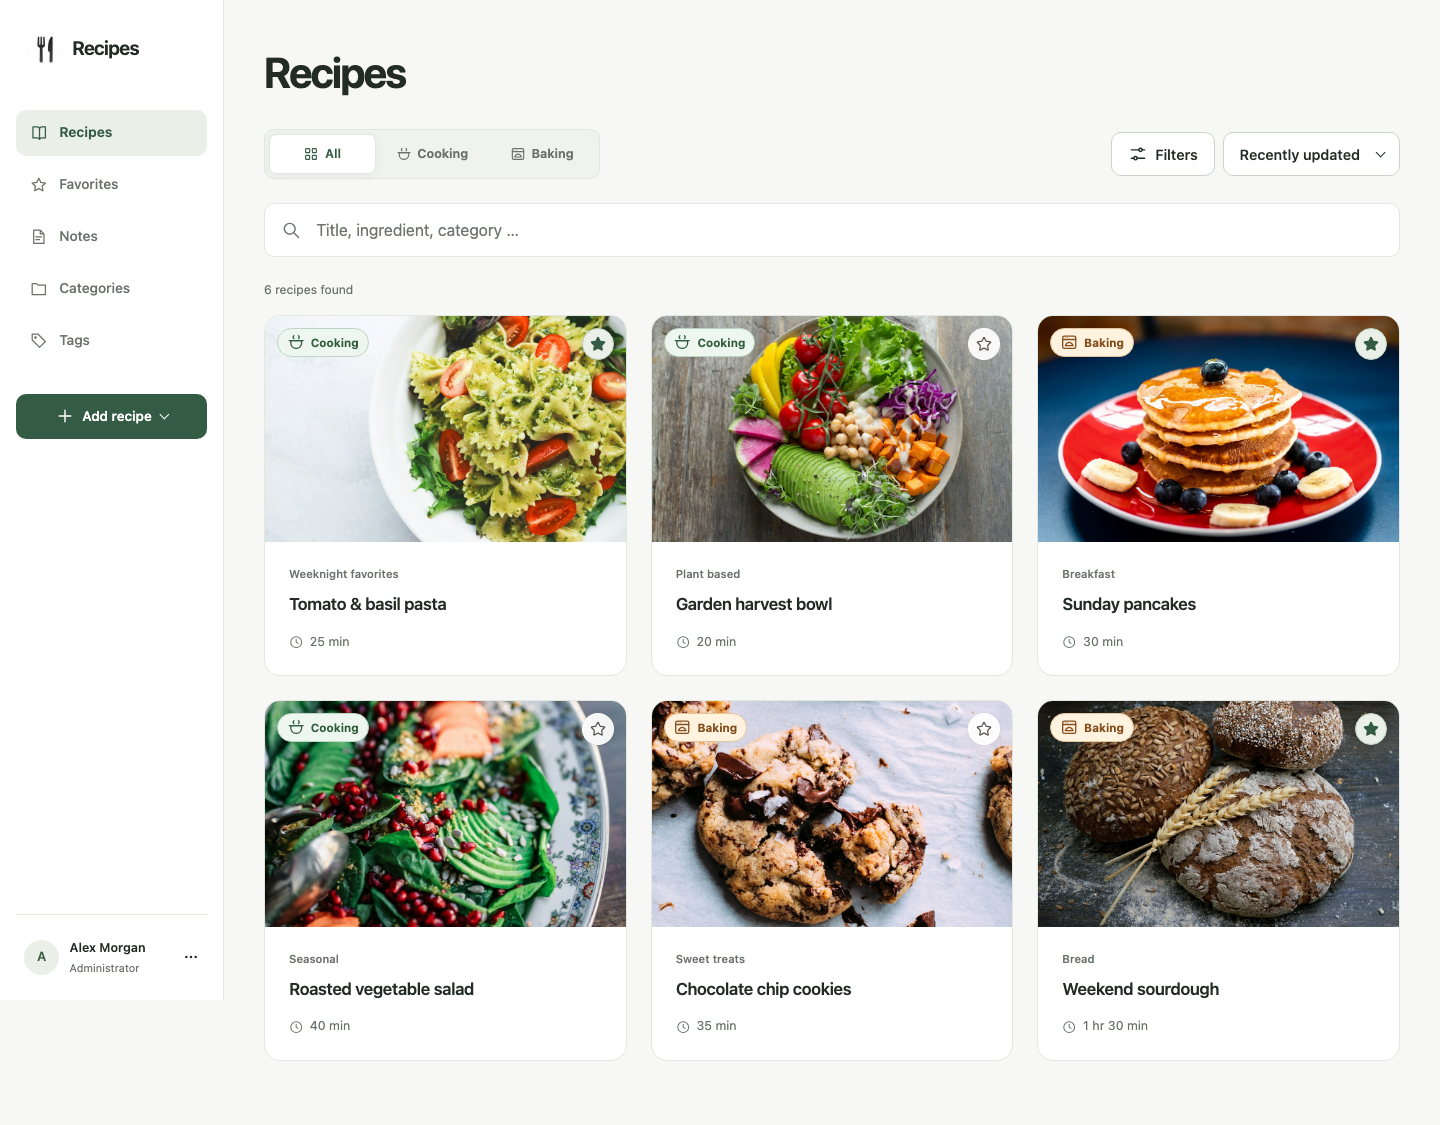
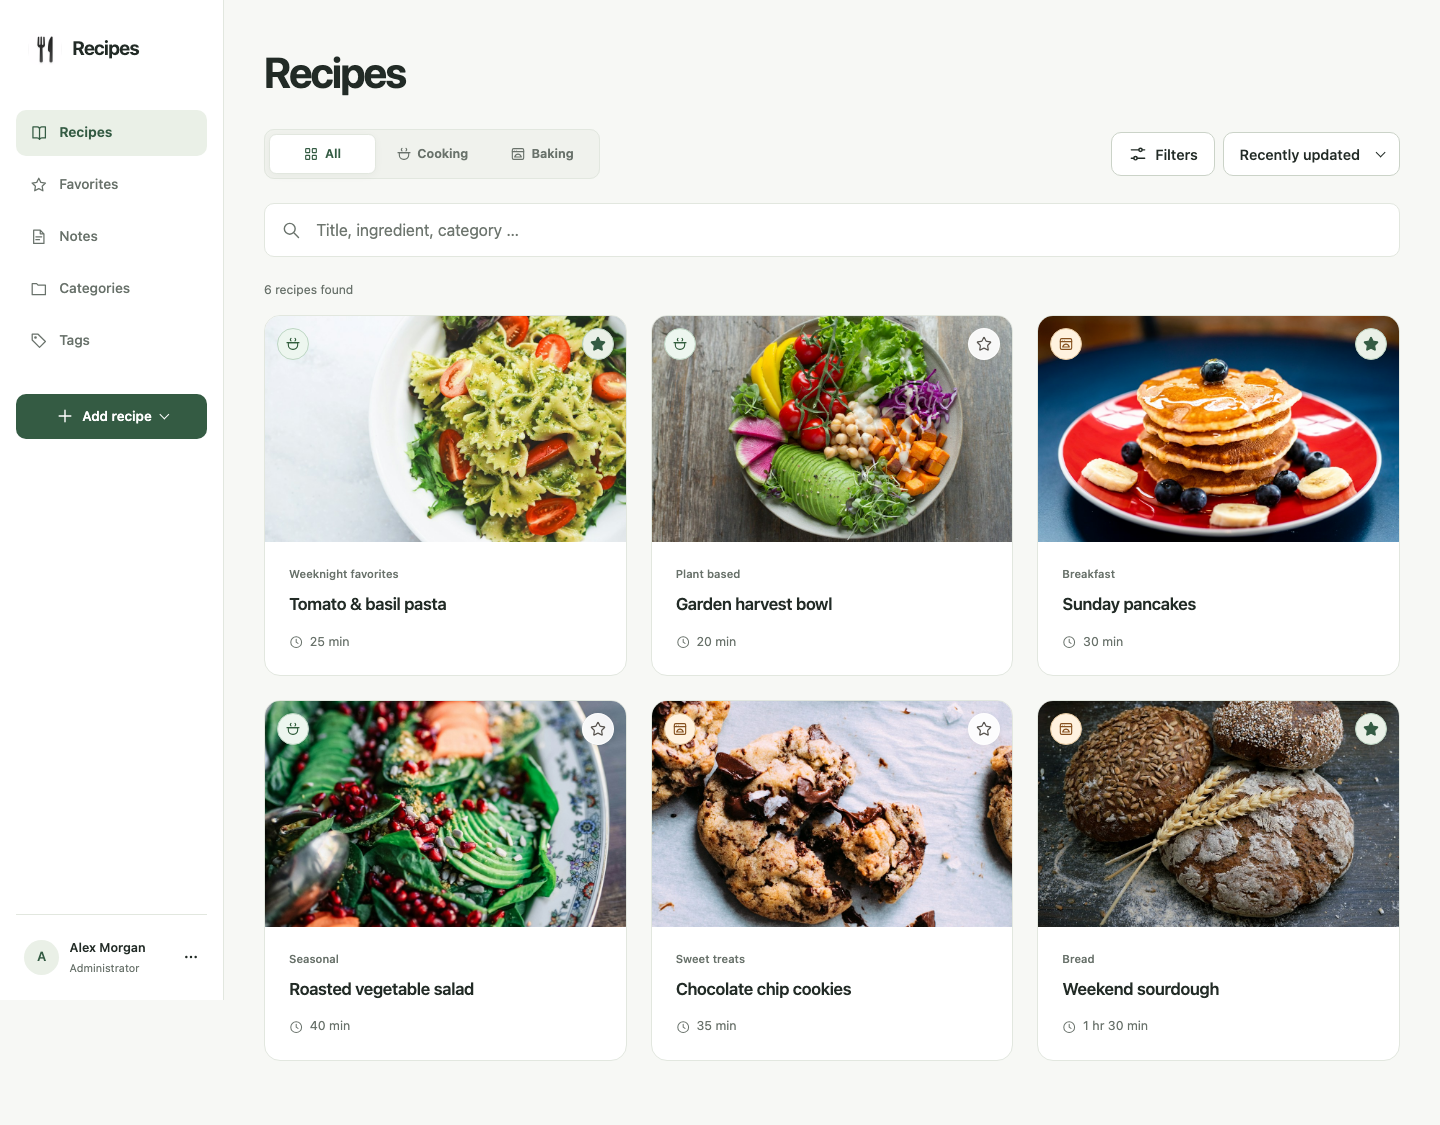
Match recipe kind badges to compact favorite circles

diff --git a/app/static/css/app.css b/app/static/css/app.css
@@ -235,7 +235,8 @@ dialog::backdrop { background: rgb(0 0 0 / .4); backdrop-filter: blur(2px); }
 .recipe-kind-label { display: inline-flex; min-height: 1.7rem; align-items: center; gap: .35rem; padding: .25rem .55rem; border: 1px solid; border-radius: 999px; font-size: .72rem; font-weight: 700; line-height: 1; white-space: nowrap; }
 .recipe-kind-label--cooking { border-color: var(--cooking-line); background: var(--cooking-soft); color: var(--cooking); }
 .recipe-kind-label--baking { border-color: var(--baking-line); background: var(--baking-soft); color: var(--baking); }
-.recipe-card__kind { position: absolute; z-index: 2; top: .75rem; left: .75rem; box-shadow: none; }
+.recipe-card__kind { position: absolute; z-index: 2; top: .75rem; left: .75rem; display: grid; width: 2rem; height: 2rem; place-items: center; padding: 0; border-radius: 50%; box-shadow: none; }
+.recipe-card__kind svg { width: 1rem; height: 1rem; }
 .favorite-toggle { position: absolute; top: .75rem; right: .75rem; z-index: 2; display: grid; width: 2rem; height: 2rem; place-items: center; padding: 0; border: 1px solid rgb(255 255 255 / .78); border-radius: 50%; background: rgb(255 255 255 / .92); color: #57534e; box-shadow: 0 2px 6px rgb(34 43 38 / .06); backdrop-filter: blur(8px); transition: color .15s ease, background-color .15s ease, border-color .15s ease, transform .15s ease; }
 /* Keep a 44px hit area around the compact 32px favorite control. */
 .favorite-toggle::after { content: ""; position: absolute; inset: -.375rem; border-radius: 50%; }

diff --git a/app/templates/recipes/_kind.html b/app/templates/recipes/_kind.html
@@ -8,9 +8,9 @@
 {% endif %}
 {%- endmacro %}
 
-{% macro recipe_kind_badge(kind, class_name='') -%}
-<span class="recipe-kind-label recipe-kind-label--{{ kind }}{% if class_name %} {{ class_name }}{% endif %}">
+{% macro recipe_kind_badge(kind, class_name='', icon_only=false) -%}
+<span class="recipe-kind-label recipe-kind-label--{{ kind }}{% if class_name %} {{ class_name }}{% endif %}"{% if icon_only %} title="{{ t('recipes.kind.' ~ kind) }}"{% endif %}>
   {{ recipe_kind_icon(kind) }}
-  <span>{{ t('recipes.kind.' ~ kind) }}</span>
+  <span{% if icon_only %} class="sr-only"{% endif %}>{{ t('recipes.kind.' ~ kind) }}</span>
 </span>
 {%- endmacro %}

diff --git a/app/templates/recipes/_cards.html b/app/templates/recipes/_cards.html
@@ -15,7 +15,7 @@
   {% set is_favorite = recipe.id in favorite_recipe_ids %}
   {{ favorite_toggle(recipe, is_favorite) }}
   {% endif %}
-  {{ recipe_kind_badge(card_recipe_kind, 'recipe-card__kind') }}
+  {{ recipe_kind_badge(card_recipe_kind, 'recipe-card__kind', icon_only=true) }}
   <div class="recipe-card__body">
     <div class="recipe-card__meta">
       {% set card_categories = recipe.categories|default([]) %}
